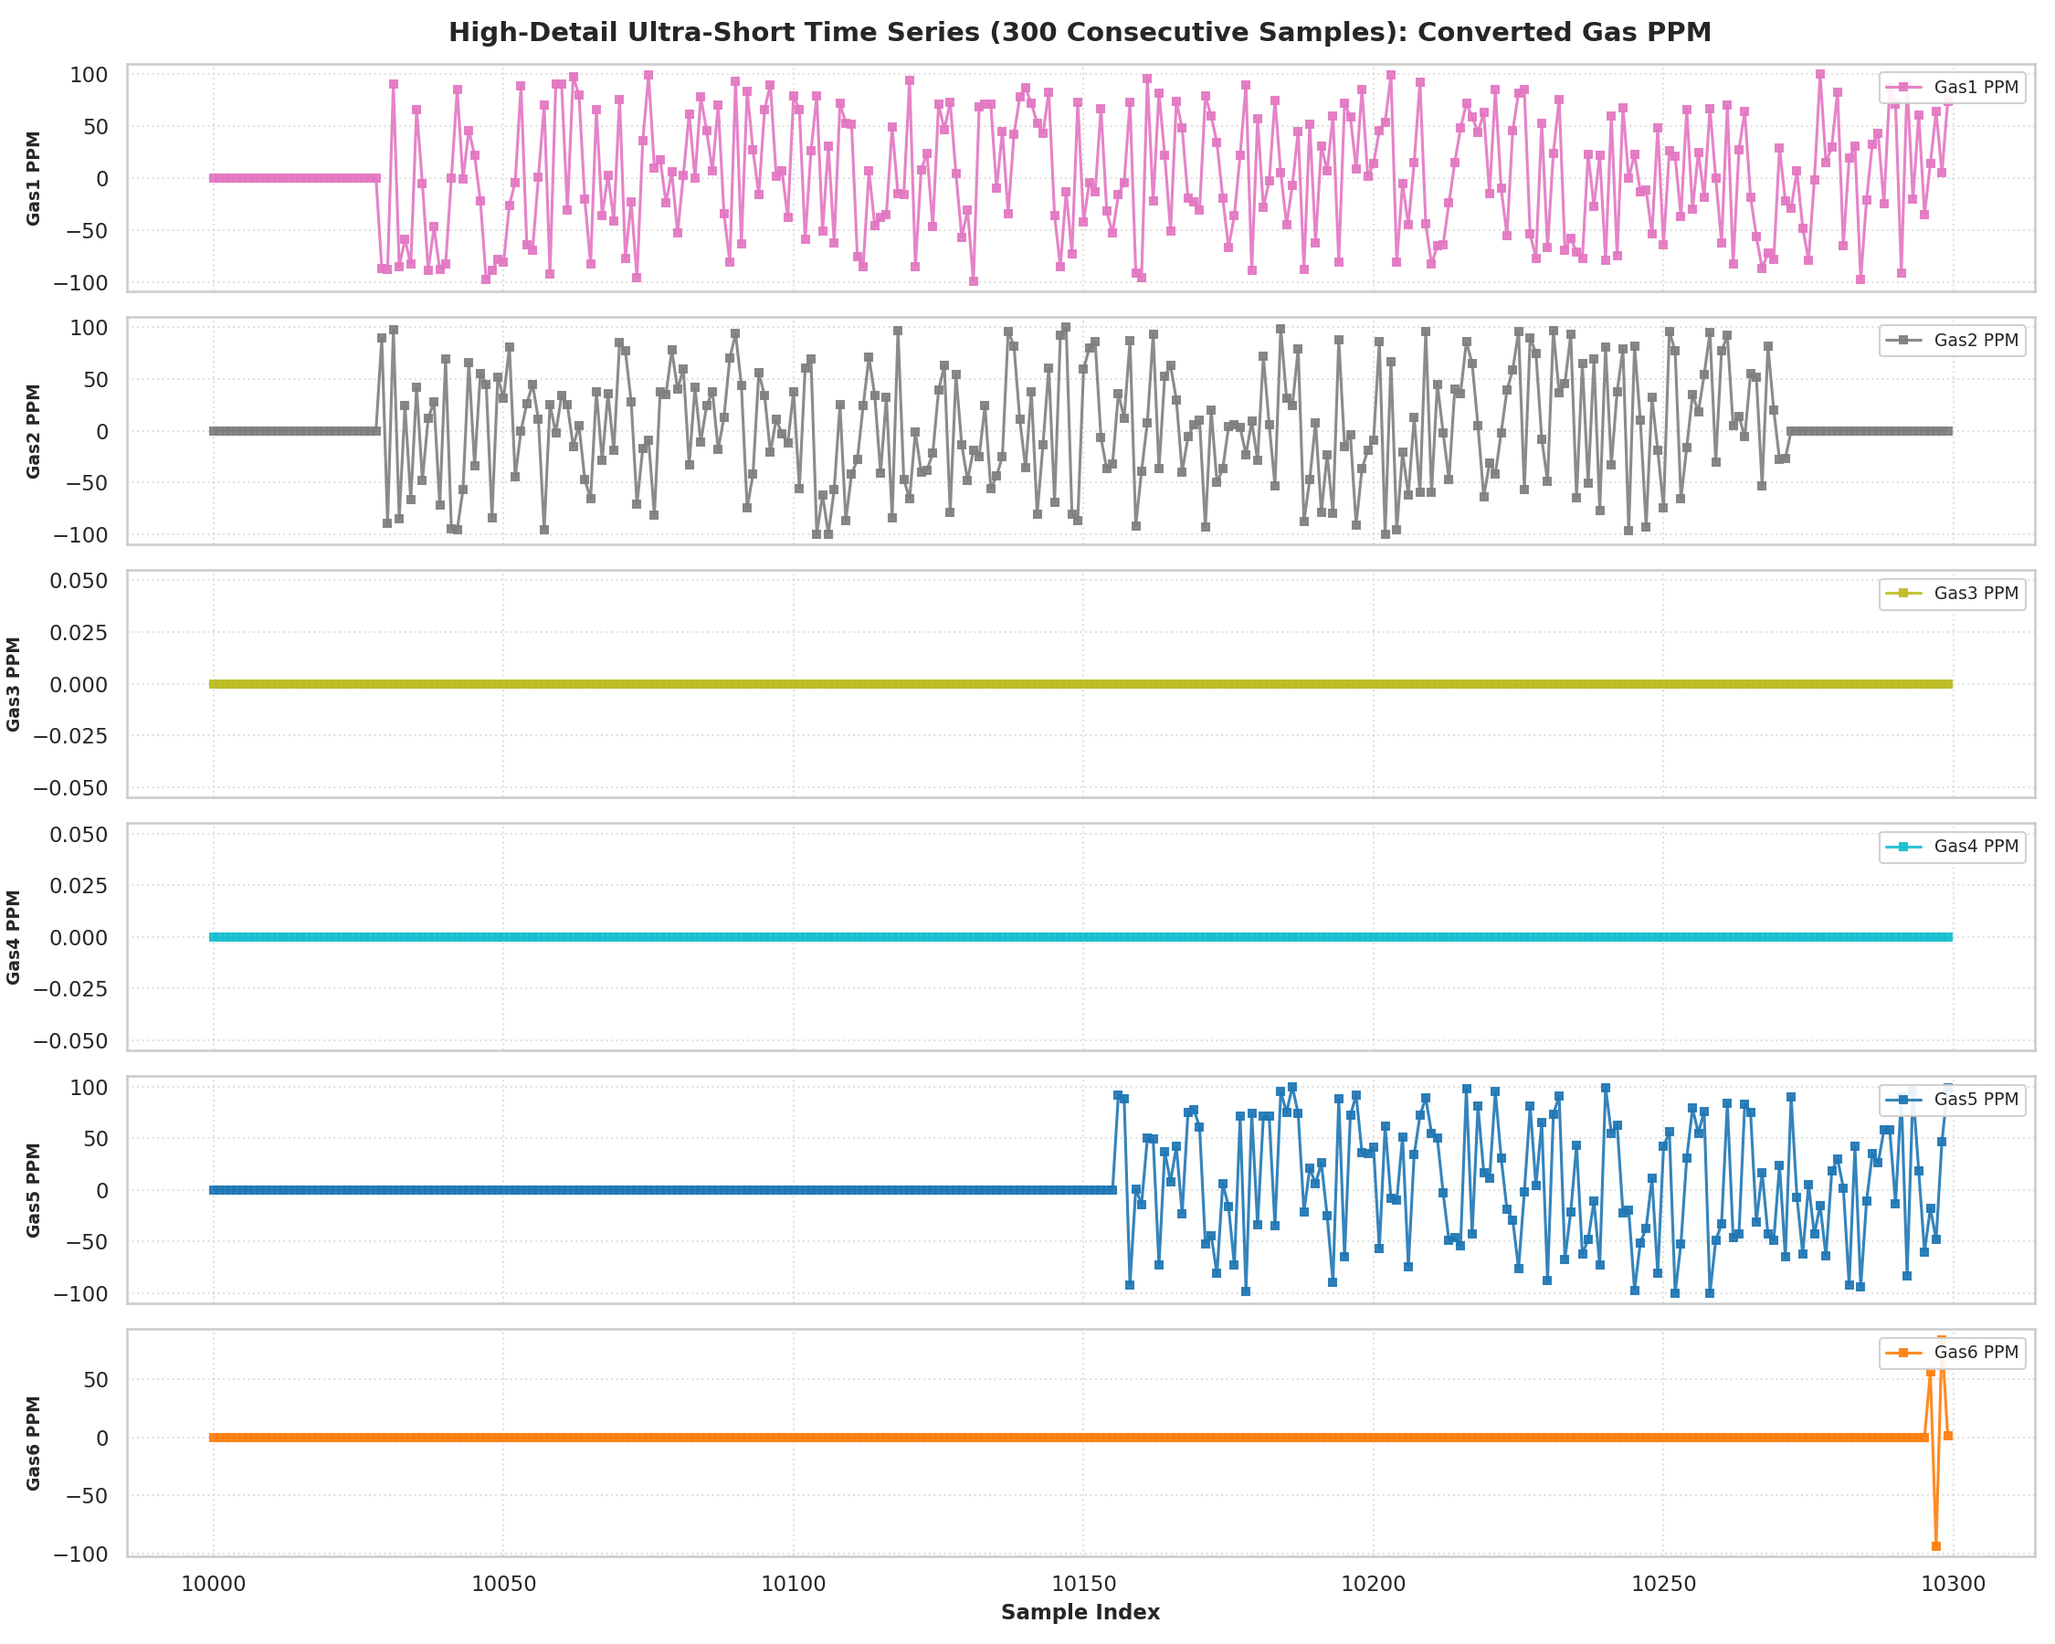
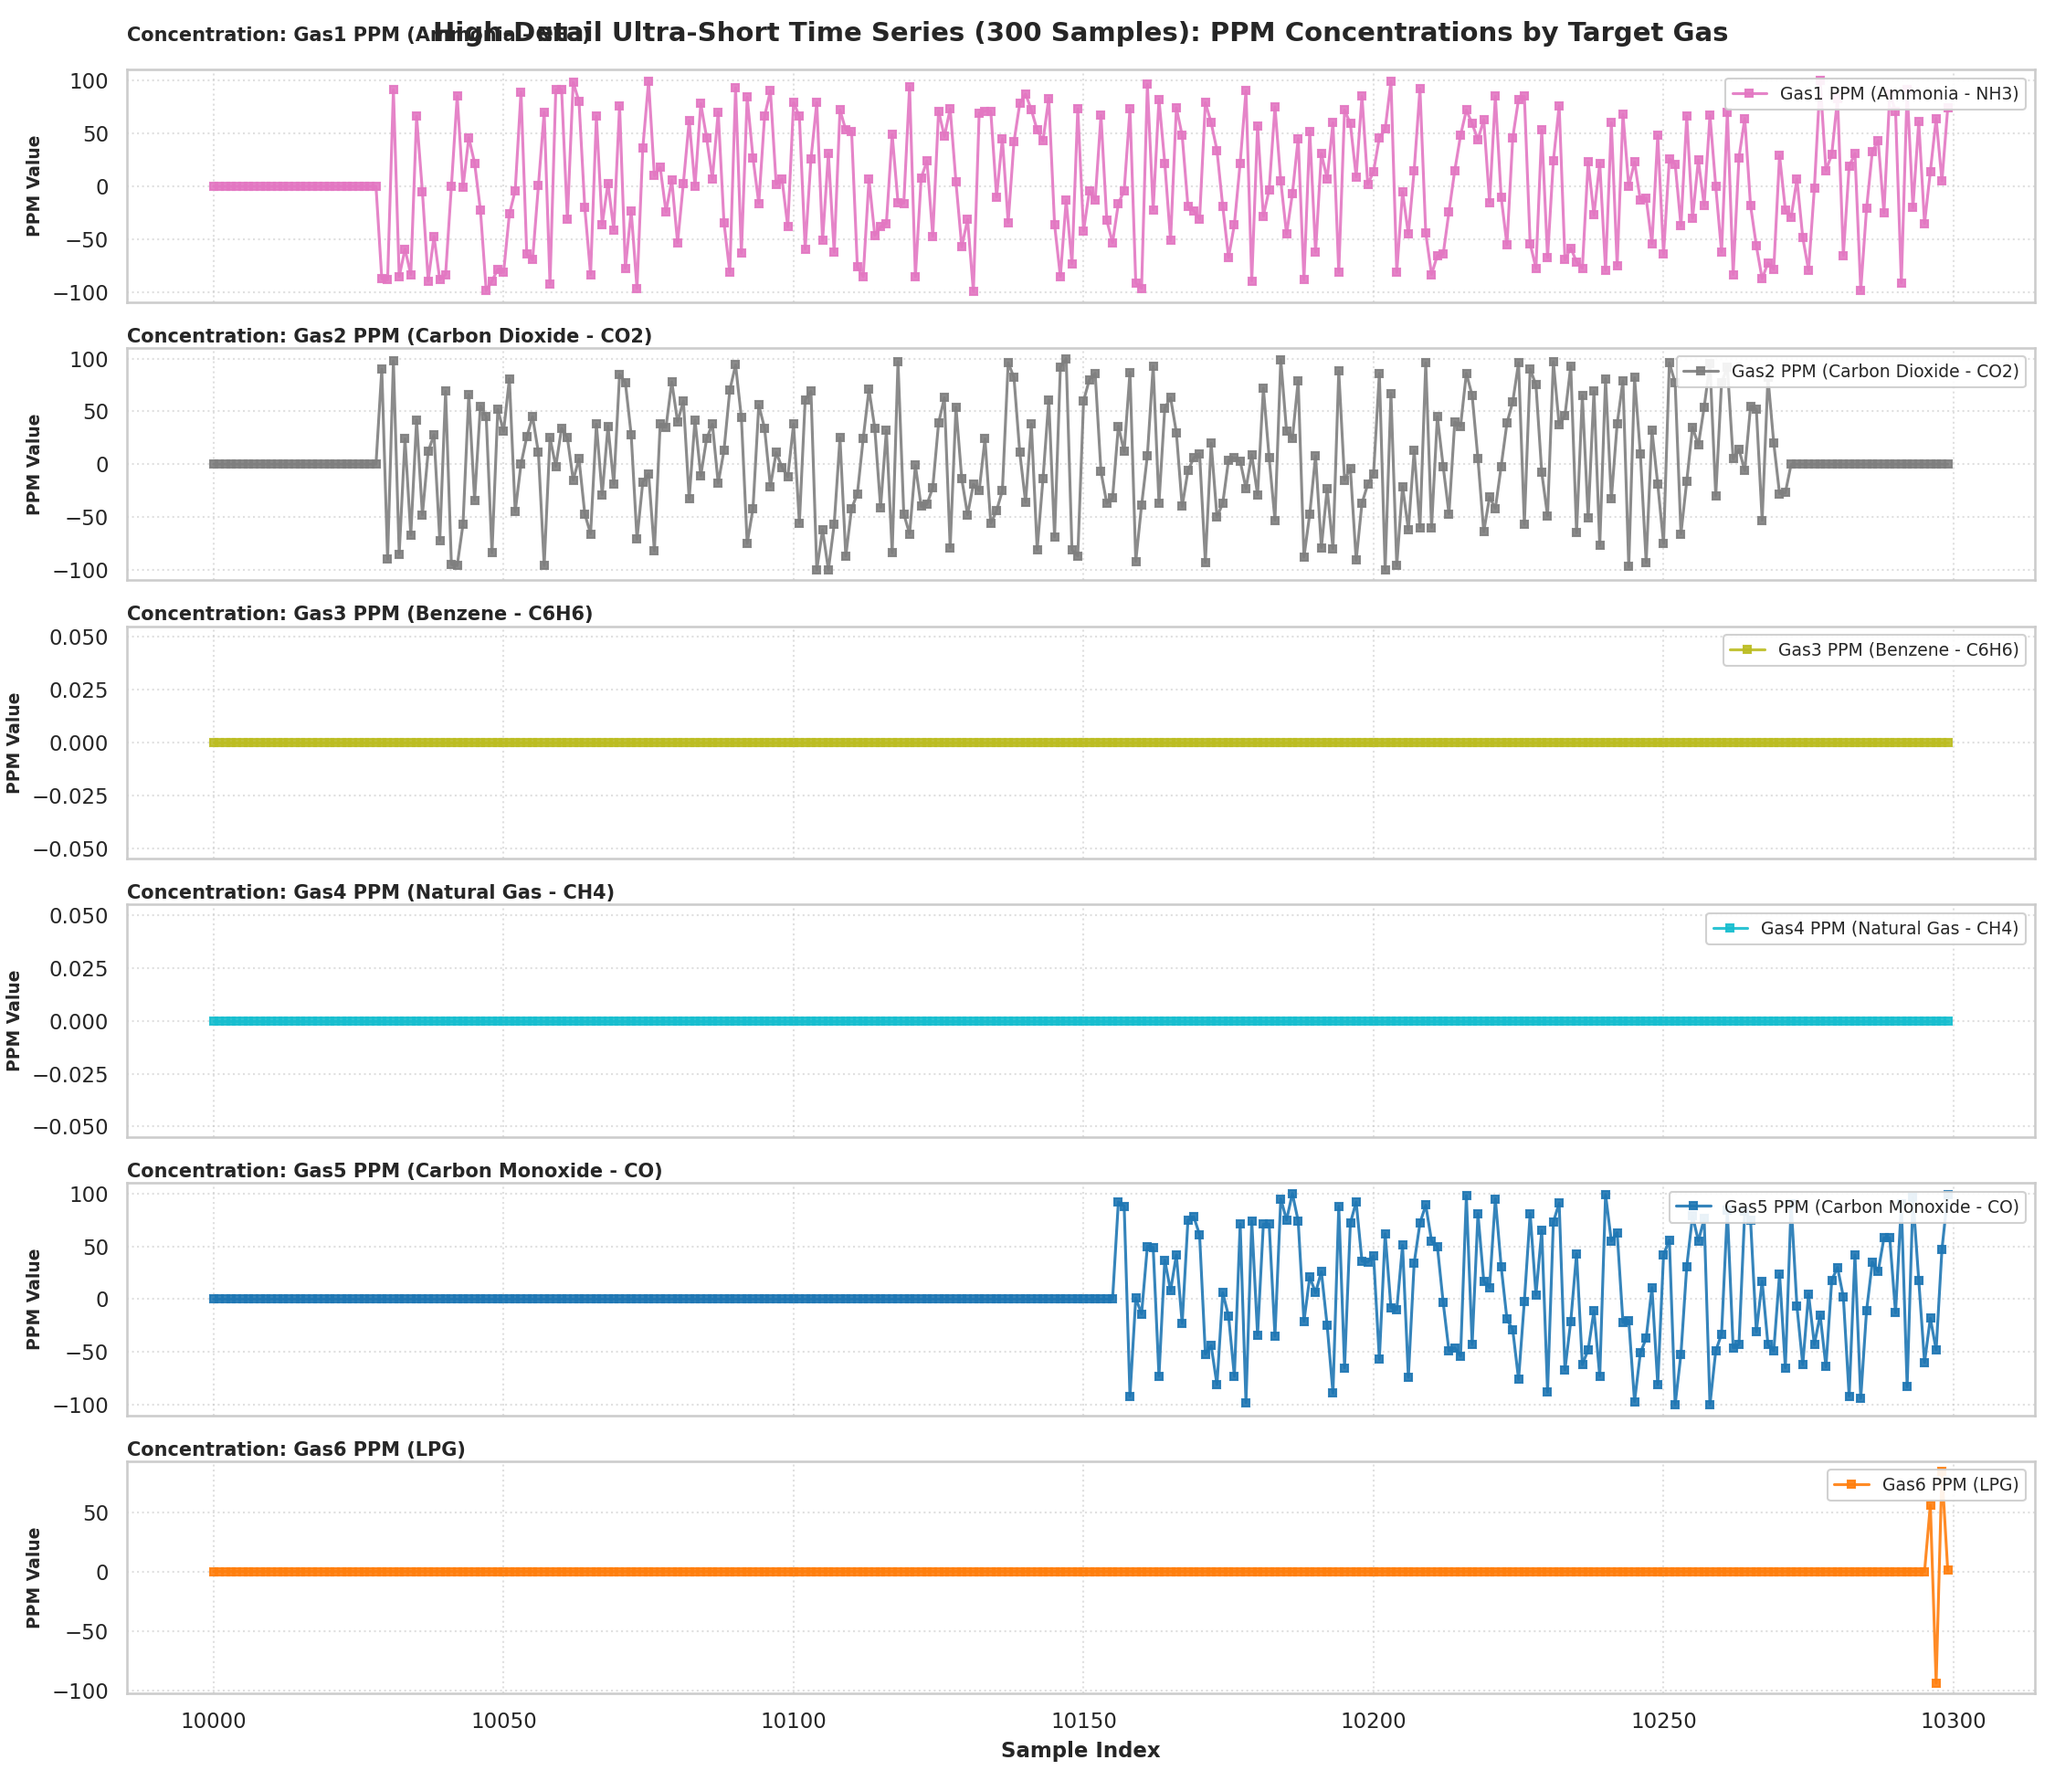
Update timeseries plots with explicit target gas names (NH3, CO2, Benzene, CH4, CO, LPG)

diff --git a/Advanced_dectection/plot_advanced_detection.py b/Advanced_dectection/plot_advanced_detection.py
@@ -51,21 +51,41 @@ def plot_class_distribution(df):
     plt.close()
     print(f"Saved: {out_path}")
 
+GAS_MAPPING = {
+    'Gas1': 'Gas1 (Ammonia - NH3)',
+    'Gas2': 'Gas2 (Carbon Dioxide - CO2)',
+    'Gas3': 'Gas3 (Benzene - C6H6)',
+    'Gas4': 'Gas4 (Natural Gas - CH4)',
+    'Gas5': 'Gas5 (Carbon Monoxide - CO)',
+    'Gas6': 'Gas6 (LPG - Liquefied Petroleum Gas)'
+}
+
+GAS_PPM_MAPPING = {
+    'Gas1 PPM': 'Gas1 PPM (Ammonia - NH3)',
+    'Gas2 PPM': 'Gas2 PPM (Carbon Dioxide - CO2)',
+    'Gas3 PPM': 'Gas3 PPM (Benzene - C6H6)',
+    'Gas4 PPM': 'Gas4 PPM (Natural Gas - CH4)',
+    'Gas5 PPM': 'Gas5 PPM (Carbon Monoxide - CO)',
+    'Gas6 PPM': 'Gas6 PPM (LPG)'
+}
+
 def plot_raw_timeseries(df, num_samples=300):
     # Select a tight 300-sample window for ultra-clear point-by-point inspection
     sample_df = df.iloc[10000:10000+num_samples].copy()
     
-    fig, axes = plt.subplots(6, 1, figsize=(15, 12), sharex=True)
+    fig, axes = plt.subplots(6, 1, figsize=(15, 13), sharex=True)
     gas_cols = [f'Gas{i}' for i in range(1, 7)]
     colors = ['#1f77b4', '#ff7f0e', '#2ca02c', '#d62728', '#9467bd', '#8c564b']
     
     for ax, col, color in zip(axes, gas_cols, colors):
-        ax.plot(sample_df.index, sample_df[col], color=color, linewidth=1.5, marker='o', markersize=4, alpha=0.9, label=f"Raw {col}")
+        gas_label = GAS_MAPPING[col]
+        ax.plot(sample_df.index, sample_df[col], color=color, linewidth=1.5, marker='o', markersize=4, alpha=0.9, label=gas_label)
         ax.set_ylabel(f"{col} (ADC/Volt)", fontsize=9, fontweight='bold')
+        ax.set_title(f"Target Gas Channel: {gas_label}", fontsize=10, fontweight='bold', pad=3, loc='left')
         ax.legend(loc="upper right", fontsize=9, facecolor="white", framealpha=0.9)
         ax.grid(True, linestyle=":", alpha=0.6)
         
-    axes[0].set_title(f"High-Detail Ultra-Short Time Series ({num_samples} Consecutive Samples): Raw MQ Sensor Outputs", fontsize=14, fontweight='bold', pad=12)
+    axes[0].set_title(f"High-Detail Ultra-Short Time Series ({num_samples} Samples): Raw Outputs by Target Gas Channel", fontsize=14, fontweight='bold', pad=15)
     axes[-1].set_xlabel("Sample Index", fontsize=11, fontweight='bold')
     plt.tight_layout()
     
@@ -78,17 +98,19 @@ def plot_ppm_timeseries(df, num_samples=300):
     # Select the same tight 300-sample window for direct comparison
     sample_df = df.iloc[10000:10000+num_samples].copy()
     
-    fig, axes = plt.subplots(6, 1, figsize=(15, 12), sharex=True)
+    fig, axes = plt.subplots(6, 1, figsize=(15, 13), sharex=True)
     ppm_cols = [f'Gas{i} PPM' for i in range(1, 7)]
     colors = ['#e377c2', '#7f7f7f', '#bcbd22', '#17becf', '#1f77b4', '#ff7f0e']
     
     for ax, col, color in zip(axes, ppm_cols, colors):
-        ax.plot(sample_df.index, sample_df[col], color=color, linewidth=1.5, marker='s', markersize=4, alpha=0.9, label=col)
-        ax.set_ylabel(f"{col}", fontsize=9, fontweight='bold')
+        ppm_label = GAS_PPM_MAPPING[col]
+        ax.plot(sample_df.index, sample_df[col], color=color, linewidth=1.5, marker='s', markersize=4, alpha=0.9, label=ppm_label)
+        ax.set_ylabel("PPM Value", fontsize=9, fontweight='bold')
+        ax.set_title(f"Concentration: {ppm_label}", fontsize=10, fontweight='bold', pad=3, loc='left')
         ax.legend(loc="upper right", fontsize=9, facecolor="white", framealpha=0.9)
         ax.grid(True, linestyle=":", alpha=0.6)
         
-    axes[0].set_title(f"High-Detail Ultra-Short Time Series ({num_samples} Consecutive Samples): Converted Gas PPM", fontsize=14, fontweight='bold', pad=12)
+    axes[0].set_title(f"High-Detail Ultra-Short Time Series ({num_samples} Samples): PPM Concentrations by Target Gas", fontsize=14, fontweight='bold', pad=15)
     axes[-1].set_xlabel("Sample Index", fontsize=11, fontweight='bold')
     plt.tight_layout()
     
